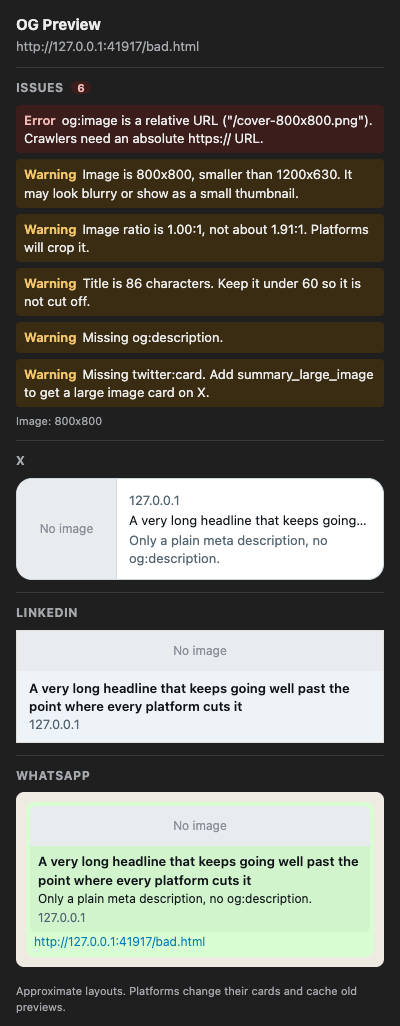
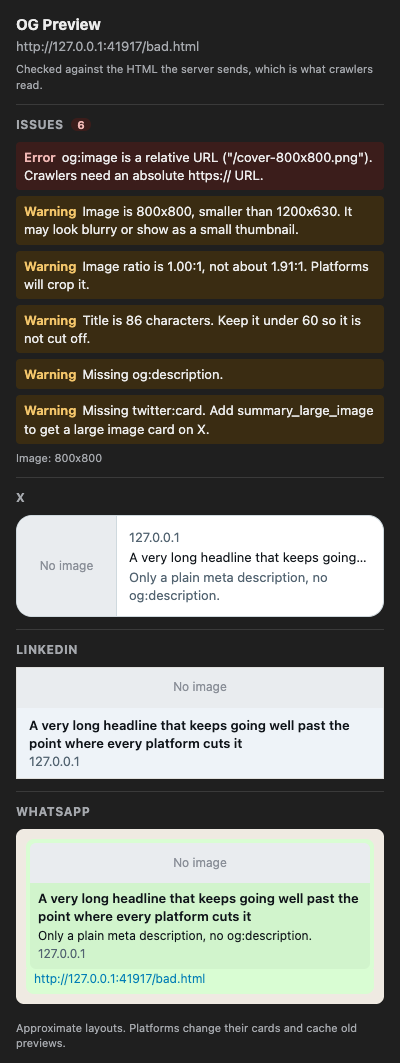
Check the served HTML instead of the live DOM
Social crawlers read the HTML the server sends and usually do not run
JavaScript, so tags added by a client-side router passed the checks
while the shared link had no image. The popup now re-requests the
tab's URL from inside the page (same origin, 1 MB cap, 8 s timeout),
runs the cards and checks on that HTML, warns about share tags that
JavaScript set or changed, and falls back to the live DOM with a note
when the request fails. Adds an SPA fixture and screenshot.

Changed region(s): [[0.03, 0.0, 0.96, 0.9981]]

diff --git a/src/meta.js b/src/meta.js
@@ -1,5 +1,6 @@
 // Pure logic: turn the <meta> tags of a page into card data and an issue list.
 // No chrome.* or DOM access here except collectMeta, which runs inside the page.
+// buildCards, imageUrl and findIssues take the collected page and use what crawlers see.
 
 export const LIMITS = {
   title: 60,
@@ -9,20 +10,56 @@ export const LIMITS = {
   ratio: 1.91,
   ratioTolerance: 0.1,
   imageTimeout: 10, // seconds before an image that has not loaded counts as failed
+  htmlTimeout: 8, // seconds to fetch the served HTML
+  htmlBytes: 1_000_000, // read at most this much of the served HTML
 };
 
 const TWITTER_CARDS = ['summary', 'summary_large_image', 'app', 'player'];
 
-// Injected with chrome.scripting.executeScript, so it must stay self-contained.
-export function collectMeta() {
-  return {
-    url: location.href,
-    title: document.title,
-    metas: [...document.querySelectorAll('meta[property], meta[name]')].map((el) => [
+// Injected with chrome.scripting.executeScript, so it must stay self-contained (limits come in as args).
+// Reads the live DOM, then re-requests the page from inside it (same origin, like a reload) to read the
+// HTML the server sends. Social crawlers read that HTML and usually do not run JavaScript.
+export async function collectMeta(maxBytes, timeoutMs) {
+  const read = (doc) => ({
+    title: doc.title,
+    metas: [...doc.querySelectorAll('meta[property], meta[name]')].map((el) => [
       el.getAttribute('property') || el.getAttribute('name'),
       el.getAttribute('content') || '',
     ]),
-  };
+  });
+  const page = { url: location.href, ...read(document) };
+  try {
+    const res = await fetch(location.href, { cache: 'no-store', signal: AbortSignal.timeout(timeoutMs) });
+    if (!res.ok) throw new Error(`HTTP ${res.status}`);
+    if (!/html/i.test(res.headers.get('content-type') || '')) throw new Error('not an HTML response');
+    const reader = res.body.getReader();
+    const decoder = new TextDecoder(document.characterSet);
+    let html = '';
+    for (let bytes = 0; bytes < maxBytes; ) {
+      const { done, value } = await reader.read();
+      if (done) break;
+      bytes += value.length;
+      html += decoder.decode(value, { stream: true });
+    }
+    reader.cancel();
+    page.served = read(new DOMParser().parseFromString(html, 'text/html'));
+  } catch (err) {
+    page.servedError = err.message;
+  }
+  return page;
+}
+
+// What crawlers read: the served HTML when it could be fetched, otherwise the live DOM.
+export function crawlerView(page) {
+  return page.served ? { url: page.url, ...page.served } : page;
+}
+
+// Share tags that JavaScript added or changed after load, so crawlers do not see the live value.
+export function jsSetTags(page) {
+  if (!page.served) return [];
+  const live = toMap(page.metas);
+  const served = toMap(page.served.metas);
+  return Object.keys(live).filter((k) => /^(og:|twitter:|description$)/.test(k) && live[k] !== served[k]);
 }
 
 // First non-empty value wins, keys are case-insensitive.
@@ -56,7 +93,8 @@ function hostOf(url) {
 
 // What each platform would read. Image is '' when the tag is missing or relative,
 // because crawlers cannot use a relative URL either.
-export function buildCards(page) {
+export function buildCards(collected) {
+  const page = crawlerView(collected);
   const m = toMap(page.metas);
   const pick = (...keys) => keys.map((k) => m[k]).find(Boolean) || '';
   const absolute = (url) => (isAbsolute(url) ? url : '');
@@ -82,14 +120,16 @@ export function buildCards(page) {
 }
 
 // URL to measure: the og:image (or twitter:image) resolved against the page.
-export function imageUrl(page) {
+export function imageUrl(collected) {
+  const page = crawlerView(collected);
   const m = toMap(page.metas);
   const raw = m['og:image'] || m['og:image:url'] || m['twitter:image'] || '';
   return raw ? resolve(raw, page.url) : '';
 }
 
 // imageSize: {width, height} once loaded, null if it failed or timed out, undefined if not checked.
-export function findIssues(page, imageSize) {
+export function findIssues(collected, imageSize) {
+  const page = crawlerView(collected);
   const m = toMap(page.metas);
   const issues = [];
   const error = (text) => issues.push({ level: 'error', text });
@@ -135,6 +175,11 @@ export function findIssues(page, imageSize) {
   const card = m['twitter:card'];
   if (!card) warn('Missing twitter:card. Add summary_large_image to get a large image card on X.');
   else if (!TWITTER_CARDS.includes(card)) warn(`twitter:card "${card}" is not a valid card type.`);
+
+  const jsTags = jsSetTags(collected);
+  if (jsTags.length) {
+    warn(`Set or changed by JavaScript, so crawlers do not see the live value: ${jsTags.join(', ')}. Put them in the served HTML.`);
+  }
 
   return issues;
 }

diff --git a/test/meta.test.js b/test/meta.test.js
@@ -1,6 +1,6 @@
 import { test } from 'node:test';
 import assert from 'node:assert/strict';
-import { toMap, buildCards, findIssues, imageUrl, isAbsolute } from '../src/meta.js';
+import { toMap, buildCards, findIssues, imageUrl, isAbsolute, jsSetTags } from '../src/meta.js';
 
 const good = {
   url: 'https://www.example.com/post/1',
@@ -109,4 +109,25 @@ test('buildCards prefers twitter:* for X and og:* elsewhere', () => {
 test('description falls back to meta name="description"', () => {
   const page = { url: 'https://a.com/', title: 't', metas: [['description', 'Plain description']] };
   assert.equal(buildCards(page).linkedin.description, 'Plain description');
+});
+
+test('served HTML is what gets checked; tags set by JavaScript are warned', () => {
+  // Live DOM is complete, but the server sends a generic title and no image (a typical SPA).
+  const spa = {
+    ...good,
+    served: { title: 'App', metas: [['og:title', 'App'], ['og:description', 'A short description.'], ['twitter:card', 'summary_large_image']] },
+  };
+  assert.deepEqual(jsSetTags(spa), ['og:title', 'og:image']);
+  const issues = findIssues(spa, undefined);
+  assert.match(texts(issues), /Missing og:image/);
+  assert.match(texts(issues), /JavaScript, so crawlers do not see the live value: og:title, og:image/);
+  assert.equal(buildCards(spa).linkedin.title, 'App');
+  assert.equal(buildCards(spa).linkedin.image, '');
+  assert.equal(imageUrl(spa), '');
+});
+
+test('identical served HTML adds no issues; no served HTML falls back to the live page', () => {
+  assert.deepEqual(findIssues({ ...good, served: { title: good.title, metas: good.metas } }, size), []);
+  assert.deepEqual(jsSetTags(good), []);
+  assert.equal(buildCards({ ...good, servedError: 'HTTP 403' }).linkedin.title, 'A good title');
 });

diff --git a/src/App.jsx b/src/App.jsx
@@ -5,7 +5,11 @@ import { LIMITS, buildCards, collectMeta, findIssues, imageUrl } from './meta.js
 async function readPage() {
   const param = Number(new URLSearchParams(location.search).get('tab'));
   const tabId = param || (await chrome.tabs.query({ active: true, currentWindow: true }))[0]?.id;
-  const [{ result }] = await chrome.scripting.executeScript({ target: { tabId }, func: collectMeta });
+  const [{ result }] = await chrome.scripting.executeScript({
+    target: { tabId },
+    func: collectMeta,
+    args: [LIMITS.htmlBytes, LIMITS.htmlTimeout * 1000],
+  });
   return result;
 }
 
@@ -106,6 +110,11 @@ export default function App() {
       <header>
         <h1>OG Preview</h1>
         <div className="muted clamp-1">{page.url}</div>
+        <p className="muted small">
+          {page.served
+            ? 'Checked against the HTML the server sends, which is what crawlers read.'
+            : `Checked against the live page; the served HTML could not be read (${page.servedError}).`}
+        </p>
       </header>
 
       <section>

diff --git a/test/fixtures/spa.html b/test/fixtures/spa.html
@@ -1,0 +1,19 @@
+<!doctype html>
+<html lang="en">
+<head>
+  <meta charset="utf-8">
+  <title>App</title>
+  <meta property="og:title" content="App">
+  <meta property="og:description" content="Caching, smaller images and one parallel step took our CI from 14 to 7 minutes.">
+  <meta name="twitter:card" content="summary_large_image">
+  <script>
+    // Like a client-side router: the real share tags only exist after JavaScript runs.
+    document.querySelector('meta[property="og:title"]').content = 'How we cut our build time in half';
+    const image = document.createElement('meta');
+    image.setAttribute('property', 'og:image');
+    image.content = 'http://127.0.0.1:41917/cover-1200x630.png';
+    document.head.append(image);
+  </script>
+</head>
+<body><h1>Fixture page whose share tags are set by JavaScript</h1></body>
+</html>

diff --git a/scripts/screenshot.py b/scripts/screenshot.py
@@ -69,7 +69,7 @@ def main():
             args=[f"--disable-extensions-except={ext}", f"--load-extension={ext}"],
         )
         make_covers(ctx)
-        for name, scheme in [("good", "light"), ("bad", "light"), ("bad", "dark")]:
+        for name, scheme in [("good", "light"), ("bad", "light"), ("bad", "dark"), ("spa", "light")]:
             target = ctx.new_page()
             target.goto(f"http://127.0.0.1:{PORT}/{name}.html")
             popup = ctx.new_page()

diff --git a/README.md b/README.md
@@ -21,6 +21,9 @@ Link previews are usually checked after the post is live, when a wrong image or 
 | Title longer than 60 characters | Warning |
 | `og:description` missing, or longer than 160 characters | Warning |
 | `twitter:card` missing or not a valid card type | Warning |
+| An `og:*`, `twitter:*` or `description` tag set or changed by JavaScript | Warning |
+
+The checks run on the HTML the server sends, because social crawlers usually do not run JavaScript. The popup re-requests the page from inside the tab (same origin, like a reload) and compares it with the live DOM, so tags added by a client-side router show up as a warning instead of passing silently. If that request fails (HTTP error, not HTML, or no answer within 8 seconds), the popup falls back to the live page and says so.
 
 The previews follow each platform's fallbacks: X reads `twitter:*` first and then `og:*`; LinkedIn and WhatsApp read `og:*`, then `<title>` and `meta name="description"`. A relative image URL is shown as "No image", because crawlers cannot resolve it either.
 
@@ -37,7 +40,7 @@ Open `chrome://extensions`, turn on Developer mode, click "Load unpacked" and pi
 
 ## Permissions
 
-Only `activeTab` and `scripting`. The extension reads the `<meta>` tags of the current tab when you click its icon. It has no background script, makes no network requests of its own (apart from loading the preview image) and stores nothing.
+Only `activeTab` and `scripting`. When you click its icon, the extension reads the `<meta>` tags of the current tab and requests the tab's own URL once more from inside the page (at most 1 MB, 8 second timeout). It does not contact any other server apart from loading the preview image, has no background script and stores nothing.
 
 ## Tests
 
@@ -57,9 +60,9 @@ python scripts/screenshot.py
 
 The script serves `test/fixtures` on `127.0.0.1:41917`, loads a copy of `dist` with an added host permission for that address (activeTab is only granted by a real click on the toolbar icon), opens the popup as a tab with `?tab=<id>` and writes `docs/popup-*.png`.
 
-| Complete tags | Dark mode |
-|---|---|
-| ![Popup on a page with complete tags](docs/popup-good.png) | ![Popup in dark mode](docs/popup-bad-dark.png) |
+| Complete tags | Tags set by JavaScript | Dark mode |
+|---|---|---|
+| ![Popup on a page with complete tags](docs/popup-good.png) | ![Popup on a page whose tags are set by JavaScript](docs/popup-spa.png) | ![Popup in dark mode](docs/popup-bad-dark.png) |
 
 ## Configuration
 
@@ -69,8 +72,9 @@ The thresholds live in `LIMITS` at the top of `src/meta.js`.
 
 - The card layouts are approximations of what each platform shows today. Platforms change their designs and cache old previews, so use their own debuggers before a big launch.
 - The 60 and 160 character limits are common guidelines, not limits published by each platform.
-- The popup reads the live page, including tags added by JavaScript. Social crawlers usually read only the served HTML, so such tags may show here but not on the platforms.
-- No checks yet for image file size, image format (SVG and WebP support differs per platform) or redirects.
+- The served HTML is requested with your cookies and your browser's user agent. Sites that serve different HTML to logged-out visitors or to crawler user agents (prerendering services) may give the platforms a different page than the one checked here.
+- Only the first 1 MB of the served HTML is read.
+- No checks yet for image file size, image format (SVG and WebP support differs per platform) or redirects of the image URL.
 - Browser pages (`chrome://`, the Chrome Web Store) cannot be read by extensions.
 - Not published on the Chrome Web Store.
 
